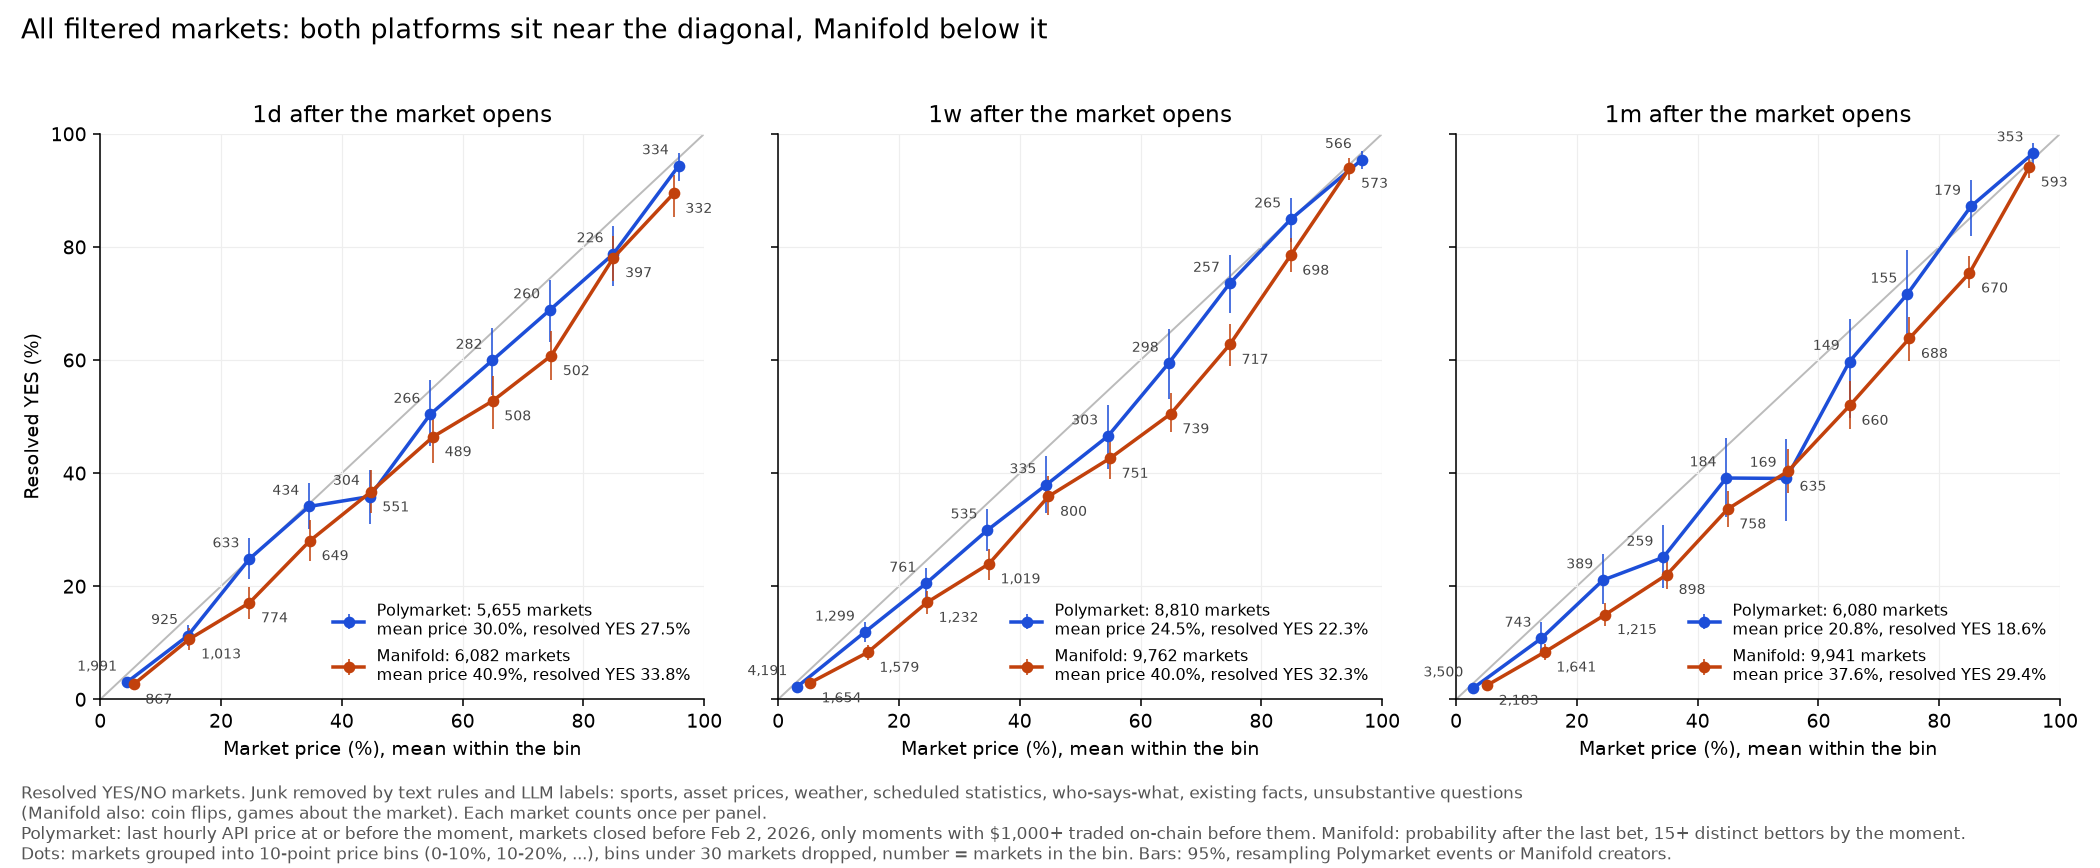
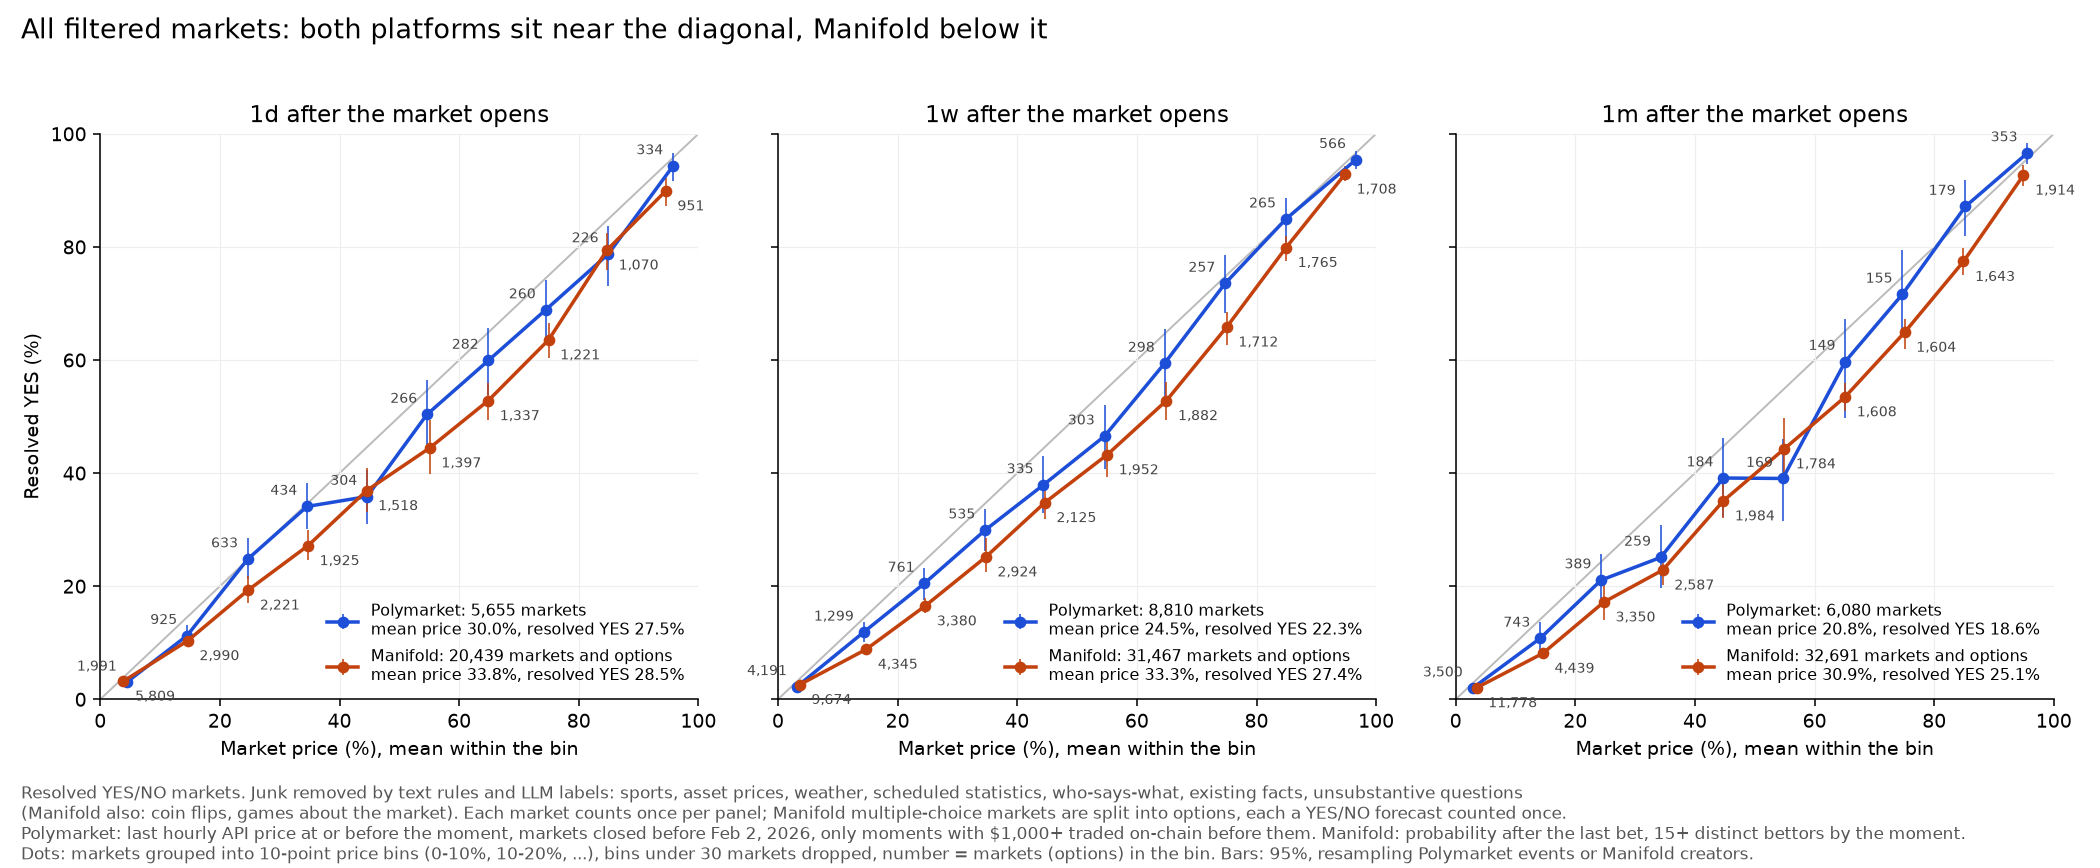
Both-platform plots: Manifold line pools binary markets with multiple-choice options (each option one YES/NO forecast); metrics.csv adds Manifold with each multiple-choice market weighing 1

diff --git a/src/both_platforms.py b/src/both_platforms.py
@@ -2,9 +2,10 @@
 
 python src/both_platforms.py -> plots/all_markets.png, plots/no_default_side.png, plots/metrics.csv
 Samples are the main ones of polymarket/calibration.py (closed_by_feb, $1,000 traded before the moment, one-winner events summing to at most 130%)
-and manifold/second_pass_analysis.py (world markets, 15+ bettors by the moment, still open then). Price at a fixed time after trading starts / creation.
+and manifold/second_pass_analysis.py (world markets, 15+ bettors by the moment, still open then), pooled with Manifold multiple-choice options
+(manifold_mc/calibration.py: each option a YES/NO forecast, world markets, same gate). Price at a fixed time after trading starts / creation.
 """
-import sys
+import importlib.util, sys
 from pathlib import Path
 import matplotlib
 matplotlib.use("Agg")
@@ -18,9 +19,12 @@ sys.path[:0] = [str(ROOT / "src"), str(ROOT / "manifold"), str(ROOT / "polymarke
 from stats import boot_rate, summary
 import calibration as pm
 import second_pass_analysis as mf
+spec = importlib.util.spec_from_file_location("mc", ROOT / "manifold_mc/calibration.py")  # same module name as polymarket/calibration.py
+mc = importlib.util.module_from_spec(spec)
+spec.loader.exec_module(mc)
 
 OUT, HORIZONS, MIN_BIN = ROOT / "plots", ["1d", "1w", "1m"], 30
-PLATFORMS = [("Polymarket", "#1d4ed8", "events"), ("Manifold", "#c2410c", "creators")]
+PLATFORMS = [("Polymarket", "#1d4ed8", "markets"), ("Manifold", "#c2410c", "markets and options")]
 
 
 def load():
@@ -29,7 +33,10 @@ def load():
     m, _ = mf.labeled()
     m = m[(m.group == "world") & (m.bettors >= 15) & (m.anchor == "after_creation") & m.horizon.isin(HORIZONS) & (m.t < m.closeTime)]
     cols = ["id", "horizon", "prob", "y", "creator", "default_side"]
-    return {"Polymarket": p[cols], "Manifold": m[cols]}, pm.weigh(p)[cols + ["w"]]
+    c = mc.main_sample(mc.frame())
+    c = c[c.group == "world"]
+    m = pd.concat([m[cols].assign(w=1.0), c[cols + ["w"]]])
+    return {"Polymarket": p[cols], "Manifold": m[cols]}, {"Polymarket": pm.weigh(p)[cols + ["w"]], "Manifold": m}
 
 
 def metrics(g):
@@ -59,17 +66,17 @@ def figure(data, keep, name, title):
             g = g[(g.horizon == h) & keep(g)]
             b = bins(g)
             ax.errorbar(b.price * 100, b.yes * 100, yerr=[(b.yes - b.lo) * 100, (b.hi - b.yes) * 100], color=color, marker="o", ms=5, lw=1.8, elinewidth=.8,
-                        label=f"{platform}: {len(g):,} markets\nmean price {g.prob.mean():.1%}, resolved YES {g.y.mean():.1%}")
+                        label=f"{platform}: {len(g):,} {unit}\nmean price {g.prob.mean():.1%}, resolved YES {g.y.mean():.1%}")
             for r in b.dropna(subset="n").itertuples():
                 ax.annotate(f"{int(r.n):,}", (r.price * 100, r.yes * 100), xytext=offset, textcoords="offset points", ha="right" if offset[0] < 0 else "left", fontsize=7, color="#444444")
         ax.set(xlim=(0, 100), ylim=(0, 100), xlabel="Market price (%), mean within the bin", title=f"{h} after the market opens")
         ax.legend(frameon=False, fontsize=8, loc="lower right")
     axes[0].set_ylabel("Resolved YES (%)")
     fig.suptitle(title, x=.01, ha="left", fontsize=14)
-    fig.text(.01, .01, "Resolved YES/NO markets. Junk removed by text rules and LLM labels: sports, asset prices, weather, scheduled statistics, who-says-what, existing facts, unsubstantive questions\n(Manifold also: coin flips, games about the market). Each market counts once per panel.\n"
+    fig.text(.01, .01, "Resolved YES/NO markets. Junk removed by text rules and LLM labels: sports, asset prices, weather, scheduled statistics, who-says-what, existing facts, unsubstantive questions\n(Manifold also: coin flips, games about the market). Each market counts once per panel; Manifold multiple-choice markets are split into options, each a YES/NO forecast counted once.\n"
              "Polymarket: last hourly API price at or before the moment, markets closed before Feb 2, 2026, only moments with $1,000+ traded on-chain before them. "
              "Manifold: probability after the last bet, 15+ distinct bettors by the moment.\n"
-             "Dots: markets grouped into 10-point price bins (0-10%, 10-20%, ...), bins under 30 markets dropped, number = markets in the bin. "
+             "Dots: markets grouped into 10-point price bins (0-10%, 10-20%, ...), bins under 30 markets dropped, number = markets (options) in the bin. "
              "Bars: 95%, resampling Polymarket events or Manifold creators.", fontsize=8.5, color="#555555")
     fig.tight_layout(rect=(0, .1, 1, .96))
     fig.savefig(OUT / name, dpi=140)
@@ -82,8 +89,8 @@ def main():
     groups = [("All markets", lambda g: g.prob > -1), ("No default side", lambda g: g.default_side == "NONE")]
     rows = [dict(platform=p, group=name, horizon=h, **metrics(d[(d.horizon == h) & keep(d)]))
             for p, d in data.items() for name, keep in groups for h in HORIZONS]
-    rows += [dict(platform="Polymarket, each event weighs 1", group=name, horizon=h, events=d.w.sum(), **summary(d))  # within a moment, an event's K markets weigh 1/K
-             for name, keep in groups for h in HORIZONS for d in [weighted[(weighted.horizon == h) & keep(weighted)]]]
+    rows += [dict(platform=f"{p}, each {unit} weighs 1", group=name, horizon=h, events=d.w.sum(), **summary(d))  # within a moment, an event's K markets, or a multiple-choice market's K options, weigh 1/K
+             for (p, unit), w in zip([("Polymarket", "event"), ("Manifold", "market")], weighted.values()) for name, keep in groups for h in HORIZONS for d in [w[(w.horizon == h) & keep(w)]]]
     pd.DataFrame(rows).round(4).to_csv(OUT / "metrics.csv", index=False)
     figure(data, groups[0][1], "all_markets.png", "All filtered markets: both platforms sit near the diagonal, Manifold below it")
     figure(data, groups[1][1], "no_default_side.png", "Only markets where nothing happening doesn't decide the answer")
